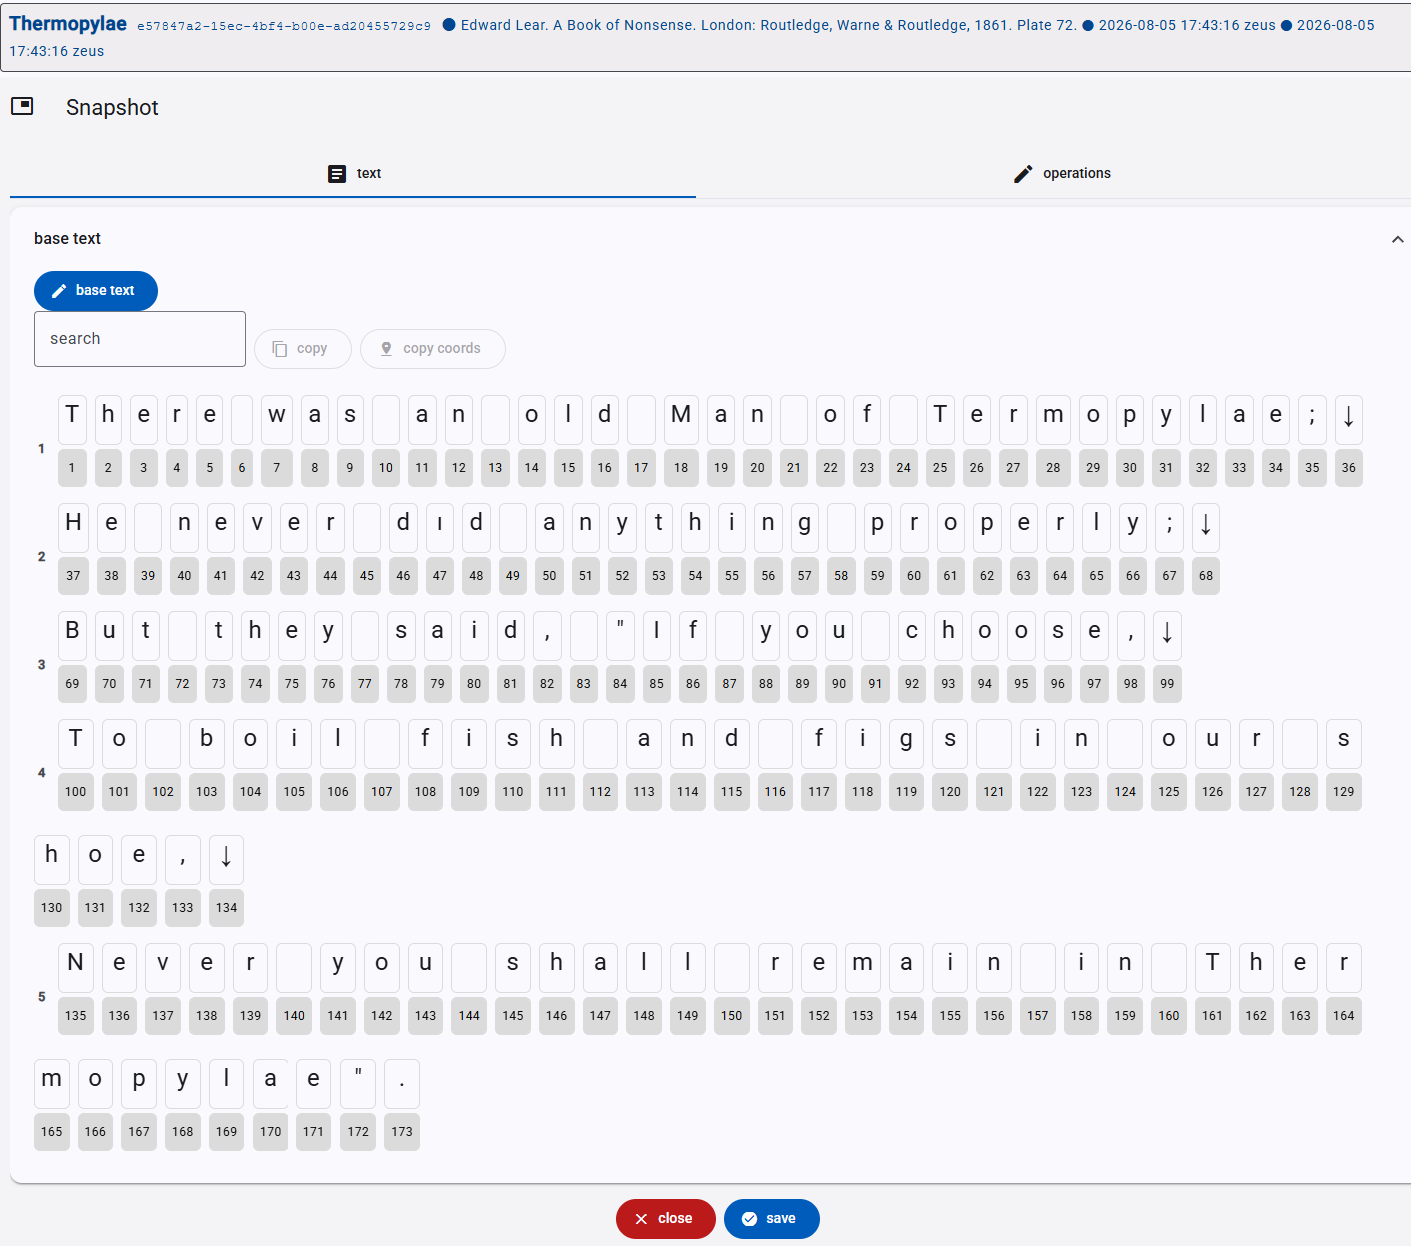
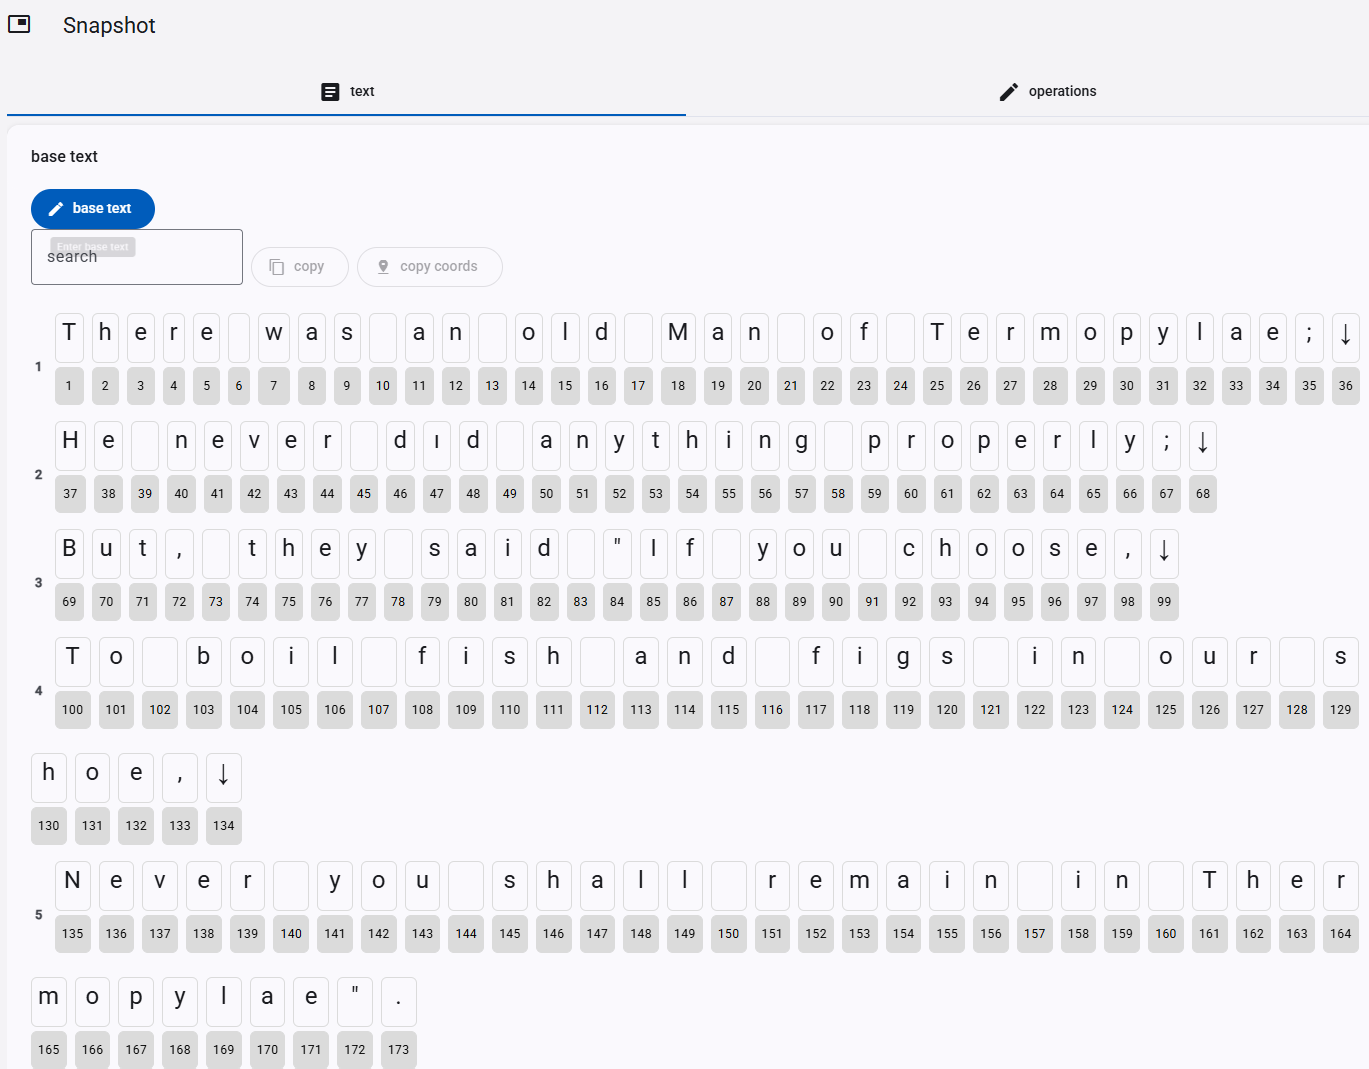
Sample

diff --git a/usage/snapshot-sample1.md b/usage/snapshot-sample1.md
@@ -43,35 +43,37 @@ Adopting the convention to describe the various operations on this text from top
 
 (3) `;` → `,` after `Termopylae`. The semicolon here gets changed into a comma by simply crossing out the dot above the comma in the semicolon. This is a compendiary way of representing this replacement, much more effective in handwriting.
 
-(4) move `,` after `But` so that it appears after `they`. The hand crossed out the first comma and added a second one.
+(4) delete the comma after `But`.
 
-(5) delete `fish and`. The hand scribbled on top of these words to mean their deletion.
+(5) add a comma after `said`. This is logically connected to the previous operation (we are moving the comma).
 
-(6) figs → eggs. The hand here just wrote a smaller `eg` on top of `fi` in `figs`.
+(6) delete `fish and`. The hand scribbled on top of these words to mean their deletion.
 
-(7) `our` → `your`. Here the hand boxed out `our` and added `your` at the right edge of the verse, with the same box, meaning that this new text should replace the original one.
+(7) figs → eggs. The hand here just wrote a smaller `eg` on top of `fi` in `figs`.
 
-(8) `shoe` → `shoes`. Here the hand just added a smaller `s` at the top right of `shoe`.
+(8) `our` → `your`. Here the hand boxed out `our` and added `your` at the right edge of the verse, with the same box, meaning that this new text should replace the original one.
 
-(9) reorder `Never you shall` into `You shall never`. This is very compressed in the manuscript, which just added smaller numbers on top of these words to mean their reordering.
+(9) `shoe` → `shoes`. Here the hand just added a smaller `s` at the top right of `shoe`.
+
+(10) reorder `Never you shall` into `You shall never`. This is very compressed in the manuscript, which just added smaller numbers on top of these words to mean their reordering.
 
 - **blue hand**:
 
-(10) add the missing dot above `i` in `did`.
+(11) add the missing dot above `i` in `did`.
 
-(11) `If` → `Should`. The new word was written above the old one, which was crossed out.
+(12) `If` → `Should`. The new word was written above the old one, which was crossed out.
 
-(12) add a circled dot drawing at the beginning of the epigram, to mark it as an item of some collection.
+(13) add a circled dot drawing at the beginning of the epigram, to mark it as an item of some collection.
 
-(13) add the number `2` on top of the epigram.
+(14) add the number `2` on top of the epigram.
 
 - **green hand**:
 
-(14) annotate `ai` in `remain` as long (a metrical annotation).
+(15) annotate `ai` in `remain` as long (a metrical annotation).
 
-(15) add a vertical stroke after `remain` to mark colometry.
+(16) add a vertical stroke after `remain` to mark colometry.
 
-(16) `2` → `3` as the epigram number. `3` was written to the right of the original number which was crossed out.
+(17) `2` → `3` as the epigram number. `3` was written to the right of the original number which was crossed out.
 
 ## Base Text
 
@@ -80,9 +82,9 @@ Let us start encoding this snapshot. The first step is defining the base text, r
 ```txt
 There was an old Man of Termopylae;
 He never dıd anything properly;
-  But they said, "If you choose,
-  To boil fish and figs in our shoe,
-  Never you shall remain in Thermopylae".
+But, they said "If you choose,
+To boil fish and figs in our shoe,
+Never you shall remain in Thermopylae".
 ```
 
 👉 Hands-on:
@@ -135,11 +137,11 @@ To this end, add an annotate operation with a `char offsets` feature which conta
 
 5. in the rendition section, click the play button and look at the `o`: you will see it replaced by an overwritten `O` after a few instants, just like it happened in our manuscript.
 
-![operation 1](img/ex1-02.png)
+![operation editor](img/ex1-02.png)
 
 As for the rendition, there is no need for rendition-oriented features here, because the defaults are just fine. The `O` appears overwritten and has the same black color of the base text, because the default position for added text is origin and the default text color is black.
 
-![rendition of operation 1](img/ex1-03.png)
+![rendition](img/ex1-03.png)
 
 Note the indents, and on the left the 3 colored rectangles representing `v0` (=base text), `v1` (indentations), `v2` (replacement).
 
@@ -153,12 +155,25 @@ We thus repeat the above procedure: add a new operation, set type=add-after and 
 
 If you play the rendition again, it ends with this image:
 
-![operation 4](img/ex1-04.png)
+![rendition](img/ex1-04.png)
 
-(5) `;` → `,` after `Termopylae`. Visually, in our manuscript we just have a descending diagonal stroke on the dot above the comma of the semicolon. We now want to encode exactly this on the visual side, while still preserving the effective text alteration, which is a replacement (comma instead of semicolon). So, first we start with the text layer, adding a replace operation at 35 with run 1 (=`;`) with value `,`. Then, we add these features:
+(3) `;` → `,` after `Termopylae`. Visually, in our manuscript we just have a descending diagonal stroke on the dot above the comma of the semicolon. We now want to encode exactly this on the visual side, while still preserving the effective text alteration, which is a replacement (comma instead of semicolon). So, first we start with the text layer, adding a replace operation at 35 with run 1 (=`;`) with value `,`. Then, we add these features:
 
 - `hints`=`diagonal stroke down`: this is the sign used to mean the deletion of the dot. As for all signs, it comes from our catalog of hints.
 - `log`=`cross out dot of ';' after Termopylae`
 - `foreground color`=`black`: this is the color for the hint. You must always explicitly define a color for it (unless you encode it in the hints catalog).
 - `hint Y offset`=`-0.25th`: this moves the hint up for about one quarter the average character height; otherwise, given its default origin position, the line would extend up to the comma below the dot.
 - `overridden text value`=(empty): this tells the renderer to not display the added text, here comma. This would be pointless, because the comma is already there. So, textually we replace `;` with `,`, but visually we just draw a line on the dot of `;`, without rewriting the comma. This is exactly what we encode with these features.
+
+![rendition](img/ex1-05.png)
+
+(4) delete the comma after `But`. We could also represent this with a move operation, but in this example we aim at maximum granularity. At any rate, we consider this delete logically connected to the next addition, so we add a group ID to this operation (with value `move-comma`): we will add the same group ID to the next operation too, thus virtually grouping them.
+
+So here the operation is of type delete, at 72 with run 1. Its features are:
+
+- `hints`=`diagonal stroke up`
+- `foreground color`=`black`
+- `hint Y offset`=`0.25th`: this moves the stroke one-quarter the average character height down.
+- `log`=`delete comma after 'But'`
+
+![rendition](img/ex1-06.png)
